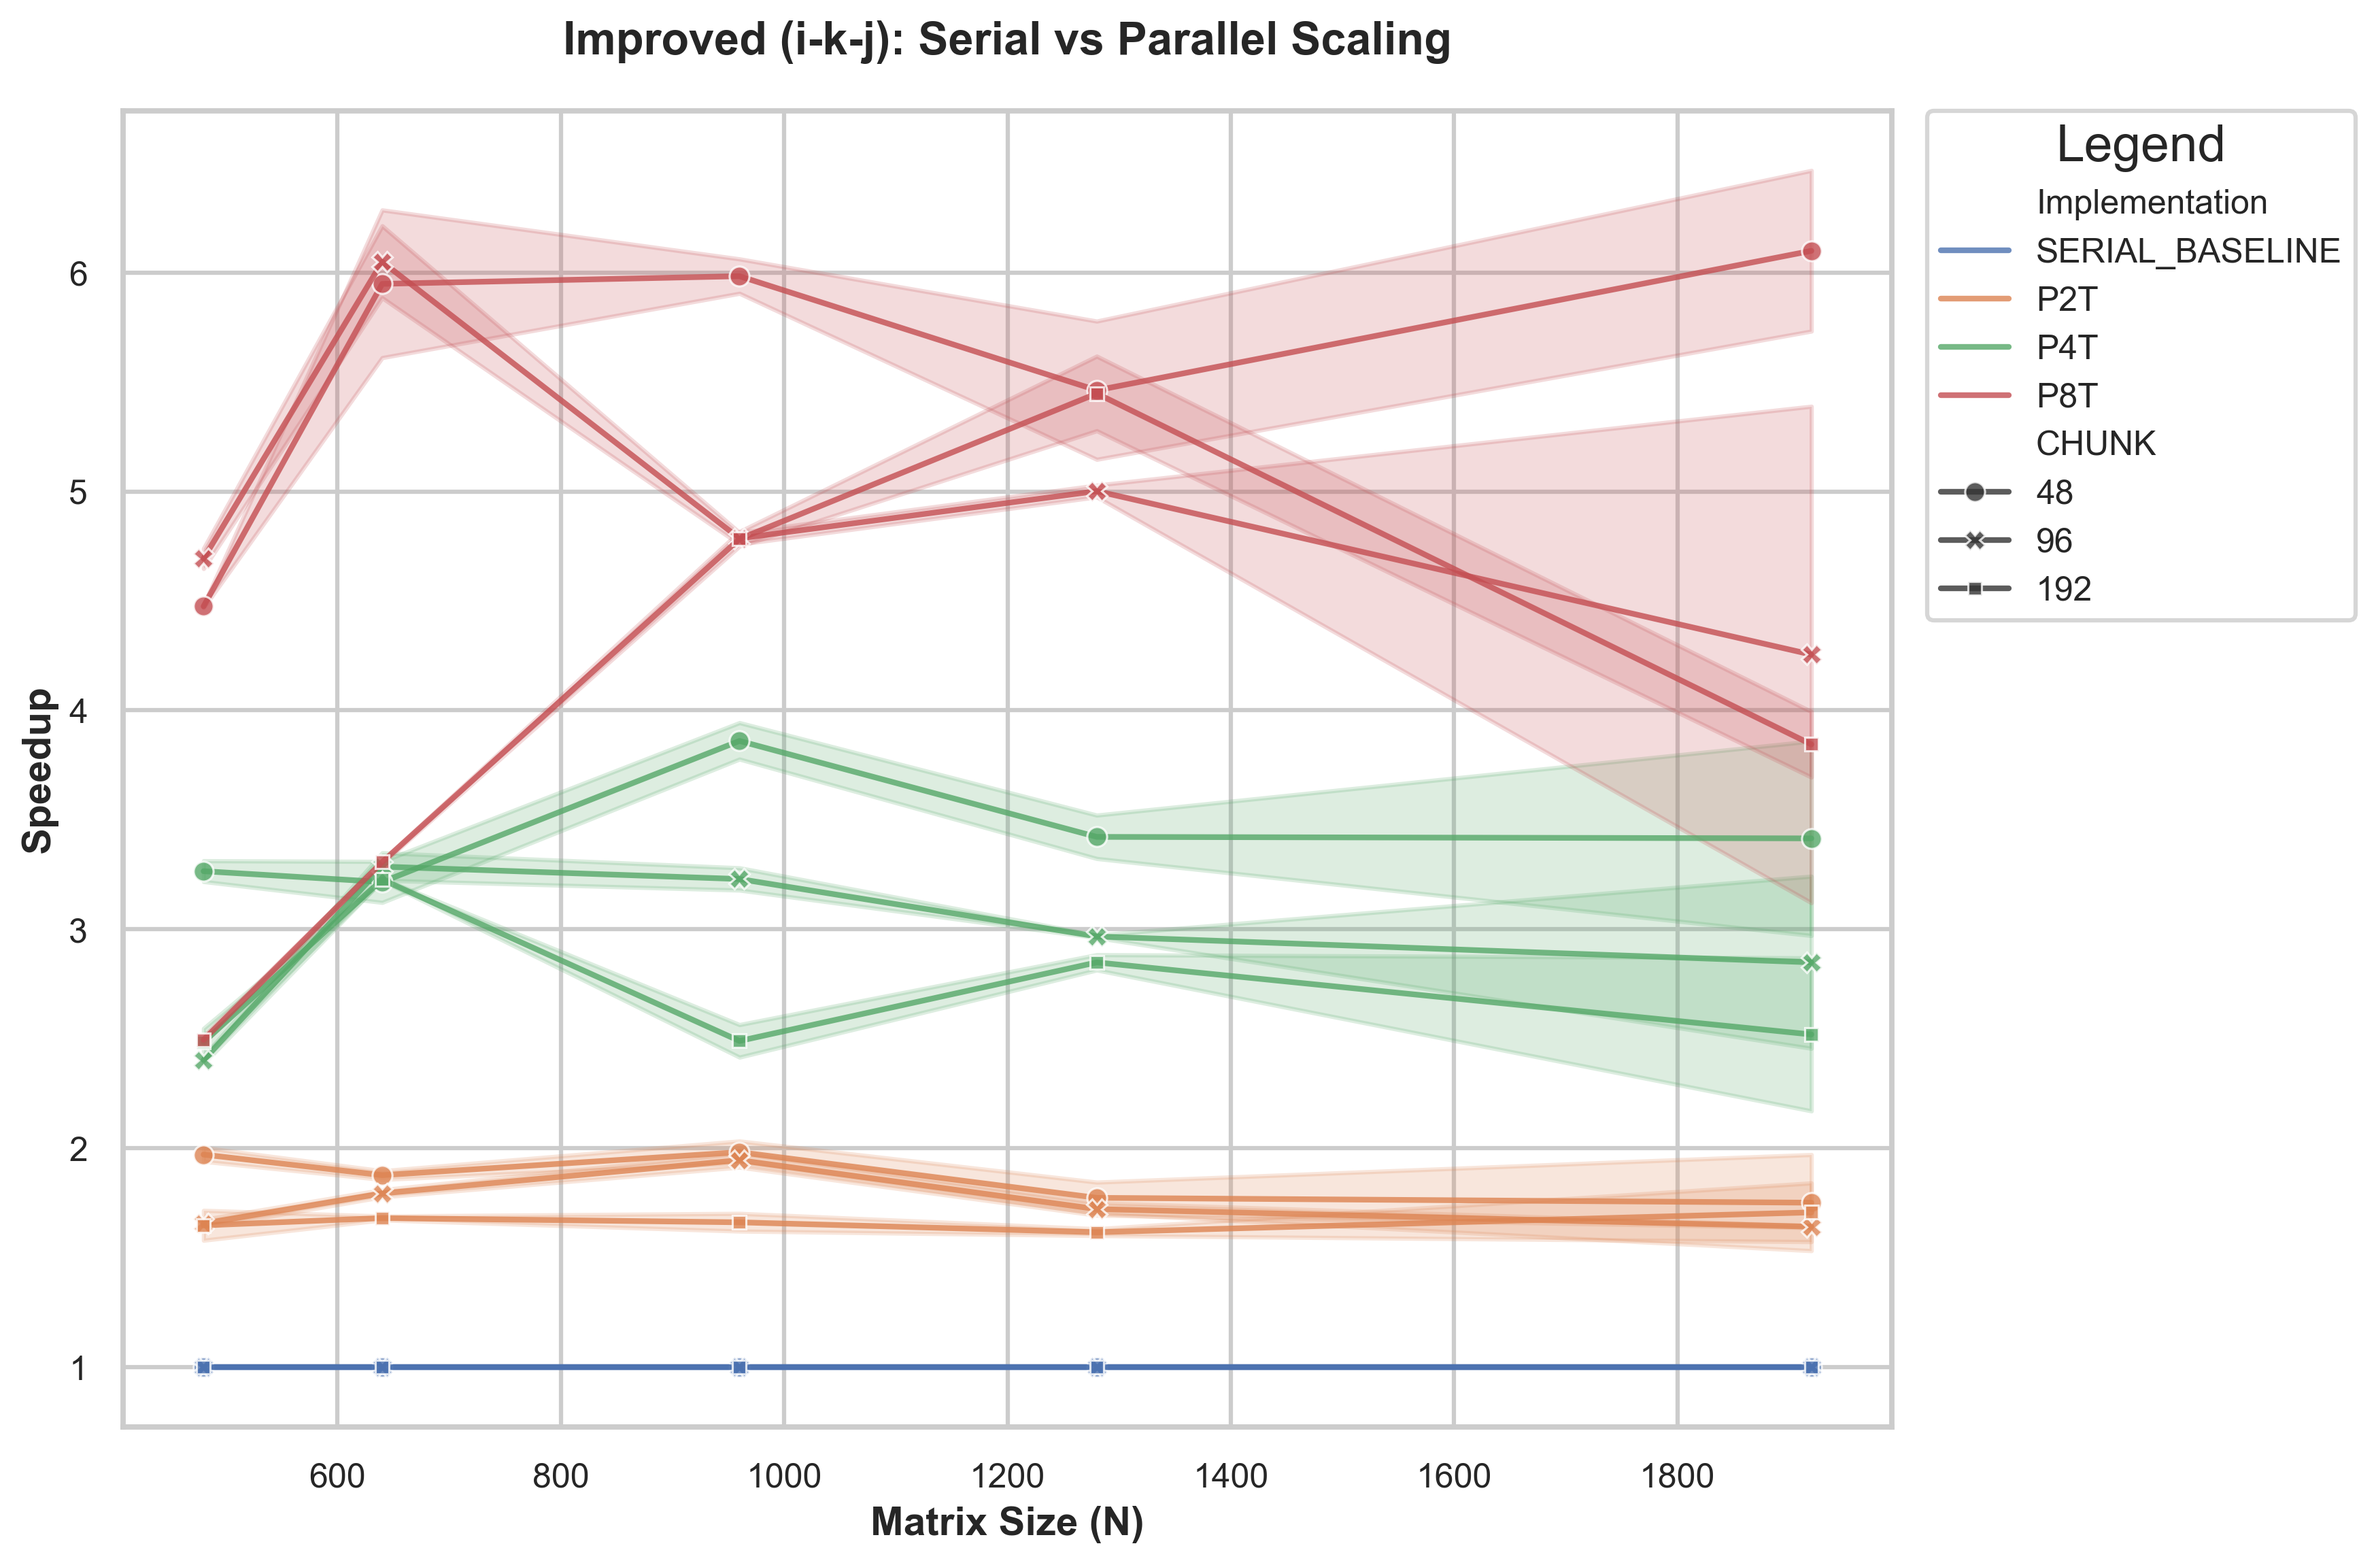
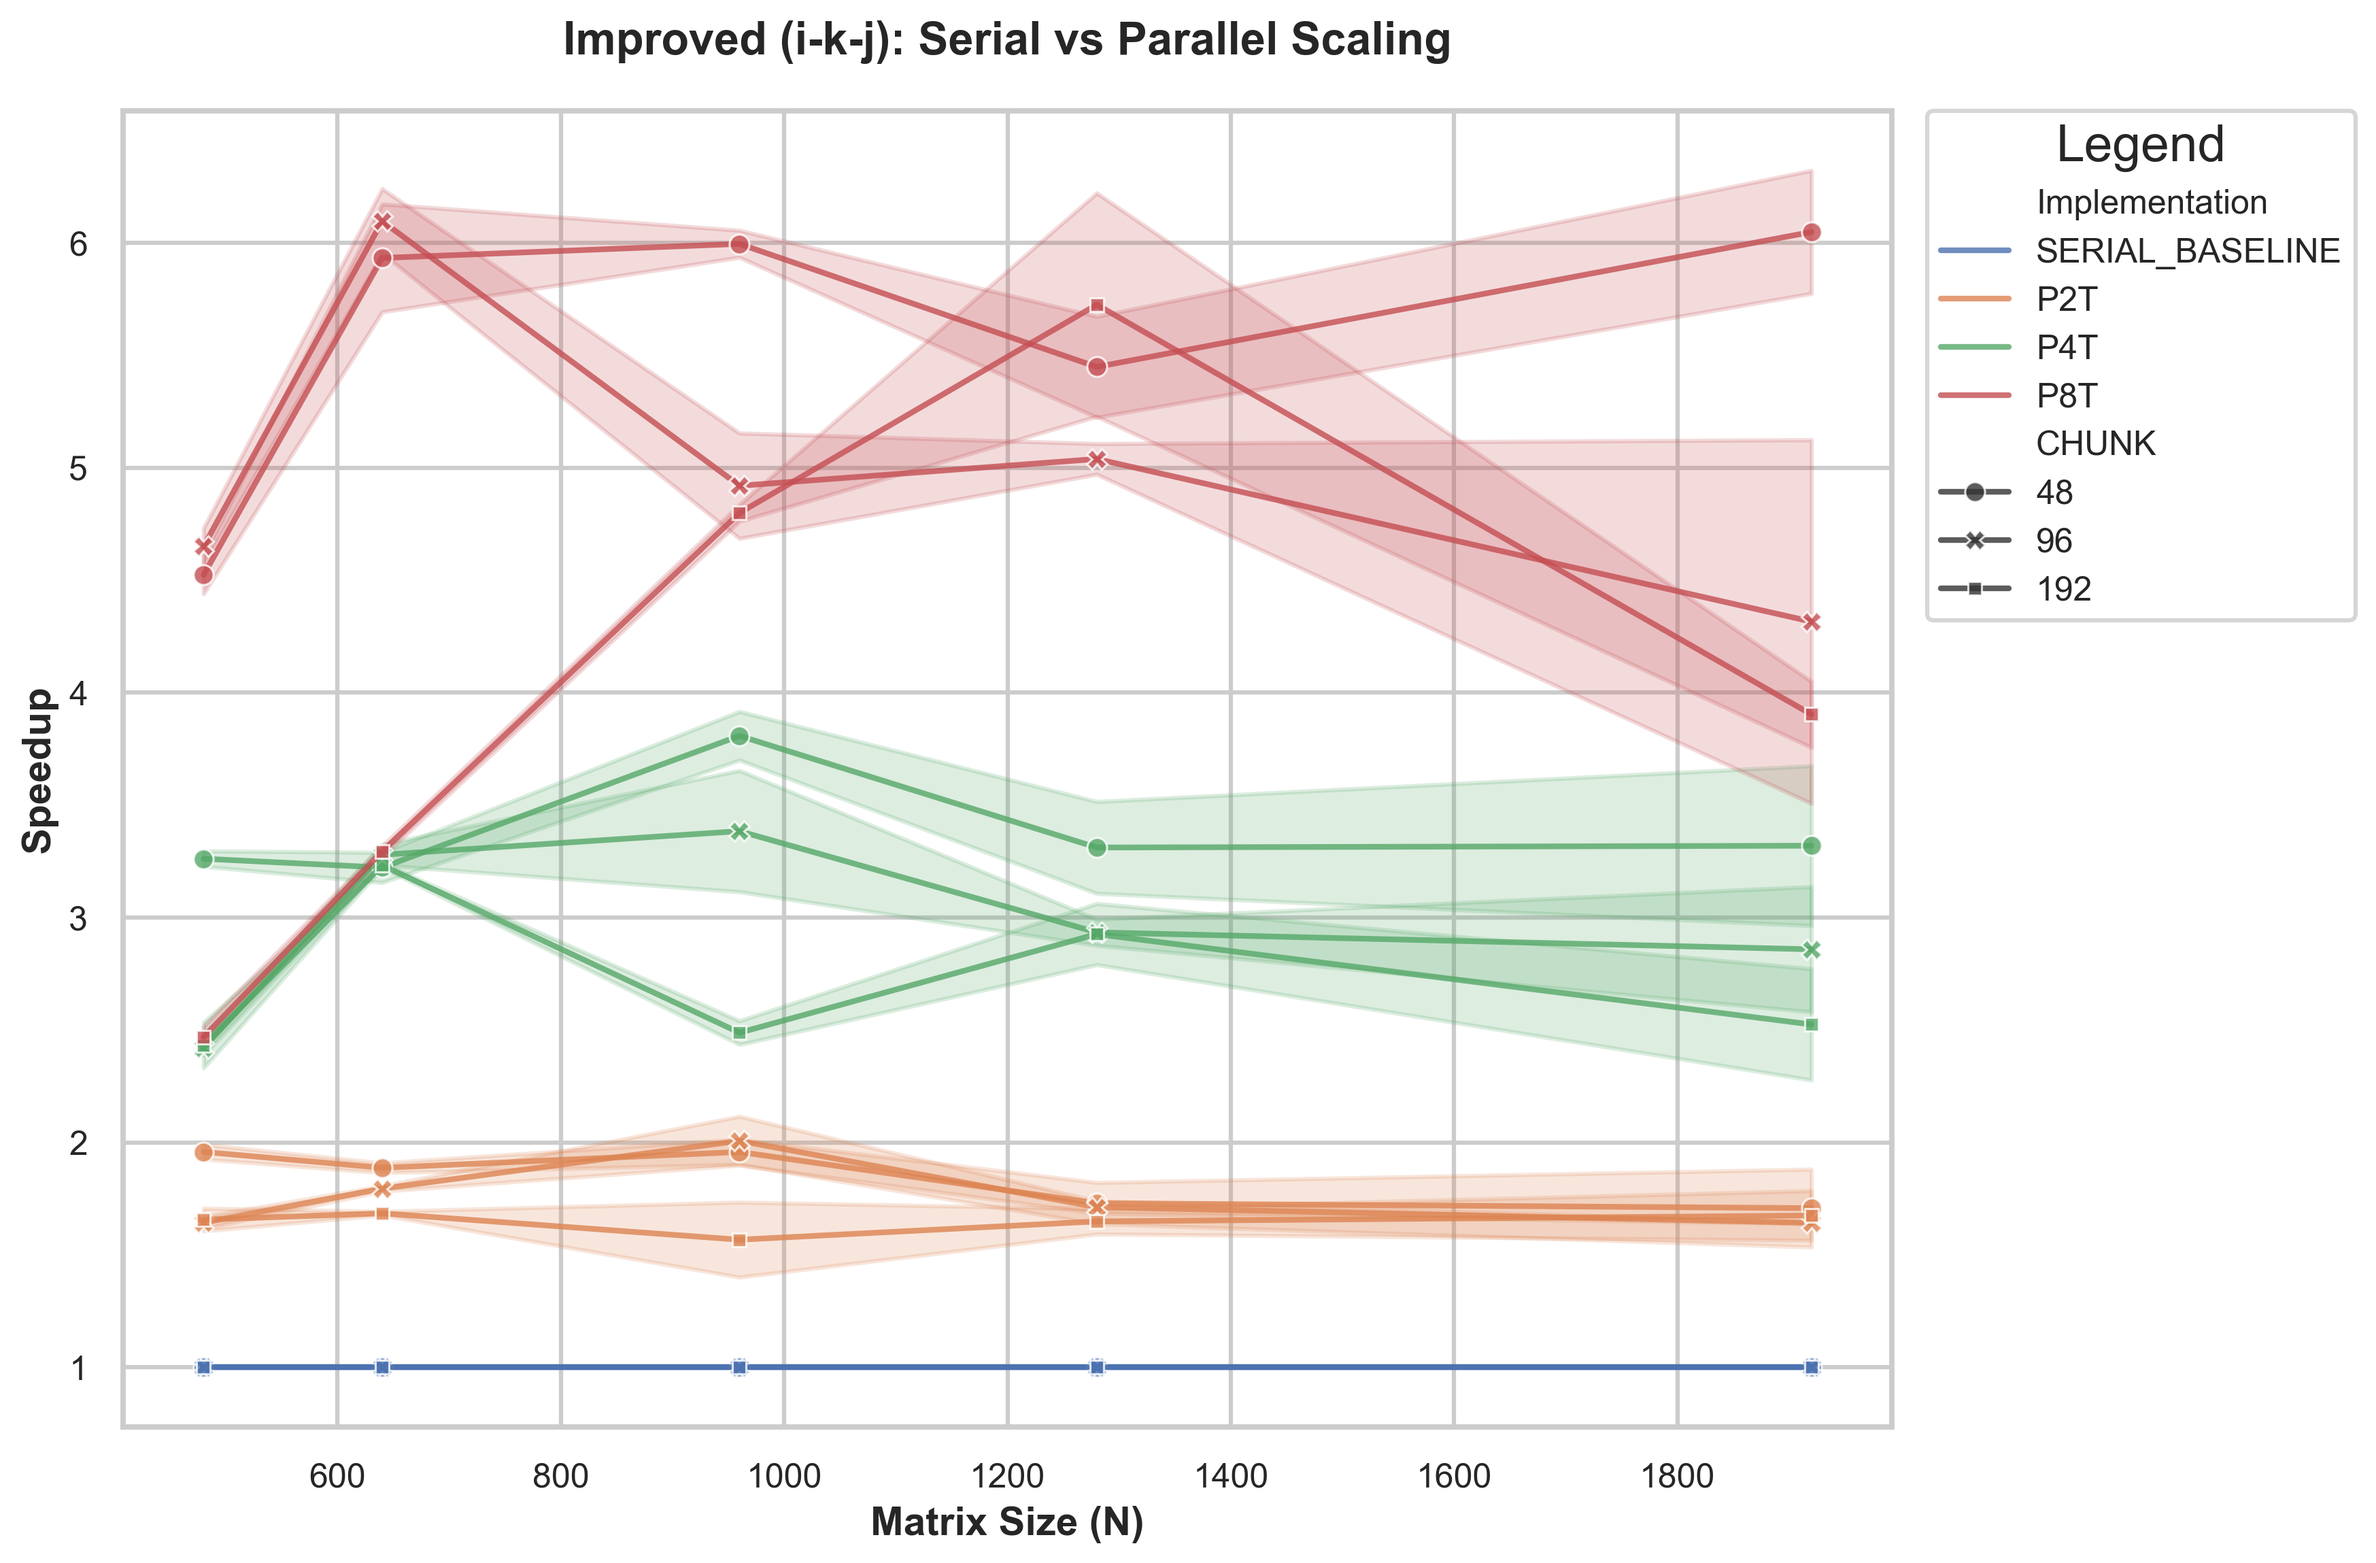
Refactor visualization imports; update data & plots
Switch visualization entrypoint to import and call plotting functions directly instead of spawning subprocesses. Add visualization/src/__init__.py and update visualization/main.py to map and invoke plot_* functions, tracking successes. Adjust individual plot scripts to ensure correct imports by adding the package parent to sys.path and importing from src.utils. Add get_project_root() and revise get_directories() in utils.py to build canonical rootdir/data/chrono and rootdir/data/plots paths and create missing directories. Append additional benchmark rows to several CSVs and update corresponding PNG plots (binary changes). Bytecode (.pyc) files were added/updated.

Changed region(s): [[0.0312, 0.1236, 0.7799, 0.8342], [0.0624, 0.6488, 0.0936, 0.6797]]

diff --git a/visualization/main.py b/visualization/main.py
@@ -1,9 +1,16 @@
 #!/usr/bin/env python3
 
-import subprocess
 import sys
 import argparse
-from pathlib import Path
+from src.plot_serial_permutations import plot_serial_permutations
+from src.plot_parallel_permutations import plot_parallel_permutations
+from src.plot_serial_parallel_scaling_classic import (
+    plot_serial_parallel_scaling_classic,
+)
+from src.plot_serial_parallel_scaling_improved import (
+    plot_serial_parallel_scaling_improved,
+)
+from src.plot_tiled import plot_tiled
 
 
 def main():
@@ -21,13 +28,16 @@ def main():
     args = parser.parse_args()
     folder_name = args.folder
 
-    script_dir = Path(__file__).parent / "src"
-    plot_scripts = [
-        "plot_serial_permutations.py",
-        "plot_parallel_permutations.py",
-        "plot_serial_parallel_scaling_classic.py",
-        "plot_serial_parallel_scaling_improved.py",
-        "plot_tiled.py",
+    # Map script names to their plotting functions
+    plot_functions = [
+        ("plot_serial_permutations", plot_serial_permutations),
+        ("plot_parallel_permutations", plot_parallel_permutations),
+        ("plot_serial_parallel_scaling_classic", plot_serial_parallel_scaling_classic),
+        (
+            "plot_serial_parallel_scaling_improved",
+            plot_serial_parallel_scaling_improved,
+        ),
+        ("plot_tiled", plot_tiled),
     ]
 
     print("Generating plots...")
@@ -40,25 +50,11 @@ def main():
     plots_created = 0
     plots_skipped = 0
 
-    for script_name in plot_scripts:
-        script_path = script_dir / script_name
-        if not script_path.exists():
-            print(f"Warning: Script not found: {script_path}", file=sys.stderr)
-            plots_skipped += 1
-            continue
-
+    for script_name, plot_func in plot_functions:
         print(f"Running {script_name}...")
         try:
-            cmd = [sys.executable, str(script_path)]
-            if folder_name:
-                cmd.append(folder_name)
-            result = subprocess.run(
-                cmd,
-                cwd=str(script_dir),
-                capture_output=False,
-                text=True,
-            )
-            if result.returncode == 0:
+            success = plot_func(folder_name=folder_name, save=True, show=False)
+            if success:
                 plots_created += 1
             else:
                 plots_skipped += 1

diff --git a/visualization/src/utils.py b/visualization/src/utils.py
@@ -88,30 +88,44 @@ def load_csv(data_dir: Path, filename: str) -> Optional[pd.DataFrame]:
         return None
 
 
+def get_project_root() -> Path:
+    """
+    Get the project root directory by traversing up from the current file location.
+    Assumes visualization/src/utils.py structure.
+
+    Returns:
+        Path to project root directory
+    """
+    # Get the directory containing this utils.py file (visualization/src/)
+    current_file = Path(__file__).resolve()
+    # Go up two levels: src/ -> visualization/ -> project root
+    project_root = current_file.parent.parent.parent
+    return project_root
+
+
 def get_directories(
     script_path: Path, folder_name: Optional[str] = None
 ) -> Tuple[Path, Path]:
     """
-    Get the data and plots directories relative to the script location.
-    Assumes scripts are in benchmark/src/ and data/plots are in benchmark/.
+    Get the data and plots directories using a clean path structure.
+    Uses rootdir/data/chrono/{custom_dir} and rootdir/data/plots/{custom_dir}.
 
     Args:
         script_path: Path to the script file (typically Path(__file__))
-        folder_name: Optional subfolder name (e.g., "O0", "O3") within data/ and plots/
+        folder_name: Optional subfolder name (e.g., "O0", "O3") for custom directory
 
     Returns:
         Tuple of (data_dir, plots_dir) Path objects
     """
-    script_dir = script_path.parent
-    # Go up two levels from src/ to visualization/ then to project root
-    project_root = script_dir.parent.parent
-    data_dir = project_root / "data" / "chrono"
-    plots_dir = project_root / "data" / "plots"
-
-    # If folder_name is provided, append it to both paths
+    rootdir = get_project_root()
+    
+    # Build clean paths: rootdir/data/chrono/{custom_dir} and rootdir/data/plots/{custom_dir}
     if folder_name:
-        data_dir = data_dir / folder_name
-        plots_dir = plots_dir / folder_name
+        data_dir = rootdir / "data" / "chrono" / folder_name
+        plots_dir = rootdir / "data" / "plots" / folder_name
+    else:
+        data_dir = rootdir / "data" / "chrono"
+        plots_dir = rootdir / "data" / "plots"
 
     # Create directories if they don't exist
     data_dir.mkdir(parents=True, exist_ok=True)

diff --git a/visualization/src/plot_tiled.py b/visualization/src/plot_tiled.py
@@ -1,11 +1,17 @@
 #!/usr/bin/env python3
 
+import sys
+from pathlib import Path
+
+# Add parent directory to path for imports
+script_dir = Path(__file__).parent.parent
+if str(script_dir) not in sys.path:
+    sys.path.insert(0, str(script_dir))
+
 import matplotlib.pyplot as plt
 import seaborn as sns
-from pathlib import Path
-import sys
 
-from utils import load_csv, get_directories, setup_plot_style
+from src.utils import load_csv, get_directories, setup_plot_style
 
 
 def plot_tiled(folder_name: str = None, save: bool = True, show: bool = False) -> bool:

diff --git a/visualization/src/plot_serial_parallel_scaling_improved.py b/visualization/src/plot_serial_parallel_scaling_improved.py
@@ -1,11 +1,17 @@
 #!/usr/bin/env python3
 
+import sys
+from pathlib import Path
+
+# Add parent directory to path for imports
+script_dir = Path(__file__).parent.parent
+if str(script_dir) not in sys.path:
+    sys.path.insert(0, str(script_dir))
+
 import matplotlib.pyplot as plt
 import seaborn as sns
-from pathlib import Path
-import sys
 
-from utils import load_csv, get_directories, setup_plot_style
+from src.utils import load_csv, get_directories, setup_plot_style
 
 
 def plot_serial_parallel_scaling_improved(

diff --git a/visualization/src/plot_serial_parallel_scaling_classic.py b/visualization/src/plot_serial_parallel_scaling_classic.py
@@ -1,11 +1,17 @@
 #!/usr/bin/env python3
 
+import sys
+from pathlib import Path
+
+# Add parent directory to path for imports
+script_dir = Path(__file__).parent.parent
+if str(script_dir) not in sys.path:
+    sys.path.insert(0, str(script_dir))
+
 import matplotlib.pyplot as plt
 import seaborn as sns
-from pathlib import Path
-import sys
 
-from utils import load_csv, get_directories, setup_plot_style
+from src.utils import load_csv, get_directories, setup_plot_style
 
 
 def plot_serial_parallel_scaling_classic(

diff --git a/visualization/src/plot_parallel_permutations.py b/visualization/src/plot_parallel_permutations.py
@@ -1,11 +1,17 @@
 #!/usr/bin/env python3
 
+import sys
+from pathlib import Path
+
+# Add parent directory to path for imports
+script_dir = Path(__file__).parent.parent
+if str(script_dir) not in sys.path:
+    sys.path.insert(0, str(script_dir))
+
 import matplotlib.pyplot as plt
 import seaborn as sns
-from pathlib import Path
-import sys
 
-from utils import load_csv, get_directories, setup_plot_style
+from src.utils import load_csv, get_directories, setup_plot_style
 
 
 def plot_parallel_permutations(

diff --git a/visualization/src/plot_serial_permutations.py b/visualization/src/plot_serial_permutations.py
@@ -1,11 +1,17 @@
 #!/usr/bin/env python3
 
+import sys
+from pathlib import Path
+
+# Add parent directory to path for imports
+script_dir = Path(__file__).parent.parent
+if str(script_dir) not in sys.path:
+    sys.path.insert(0, str(script_dir))
+
 import matplotlib.pyplot as plt
 import seaborn as sns
-from pathlib import Path
-import sys
 
-from utils import load_csv, get_directories, setup_plot_style
+from src.utils import load_csv, get_directories, setup_plot_style
 
 
 def plot_serial_permutations(

diff --git a/visualization/src/__init__.py b/visualization/src/__init__.py
@@ -1,0 +1,3 @@
+"""
+Visualization package for generating plots from benchmark data.
+"""
